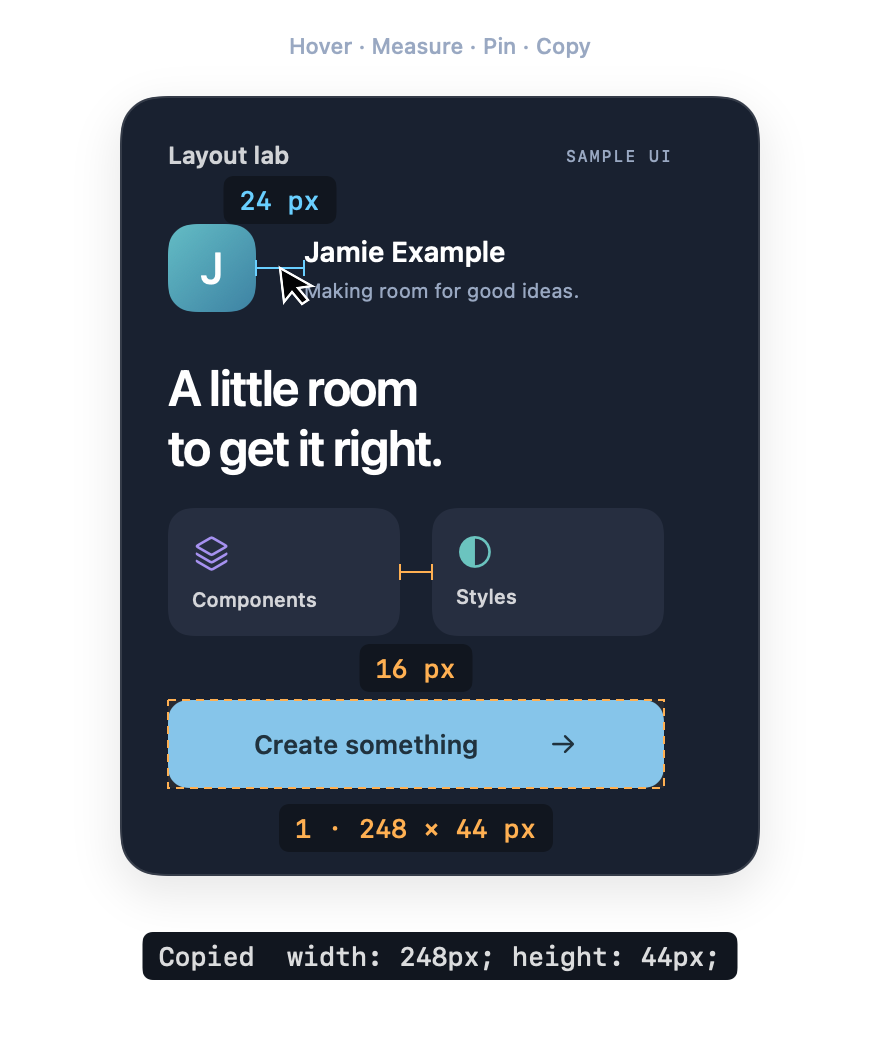
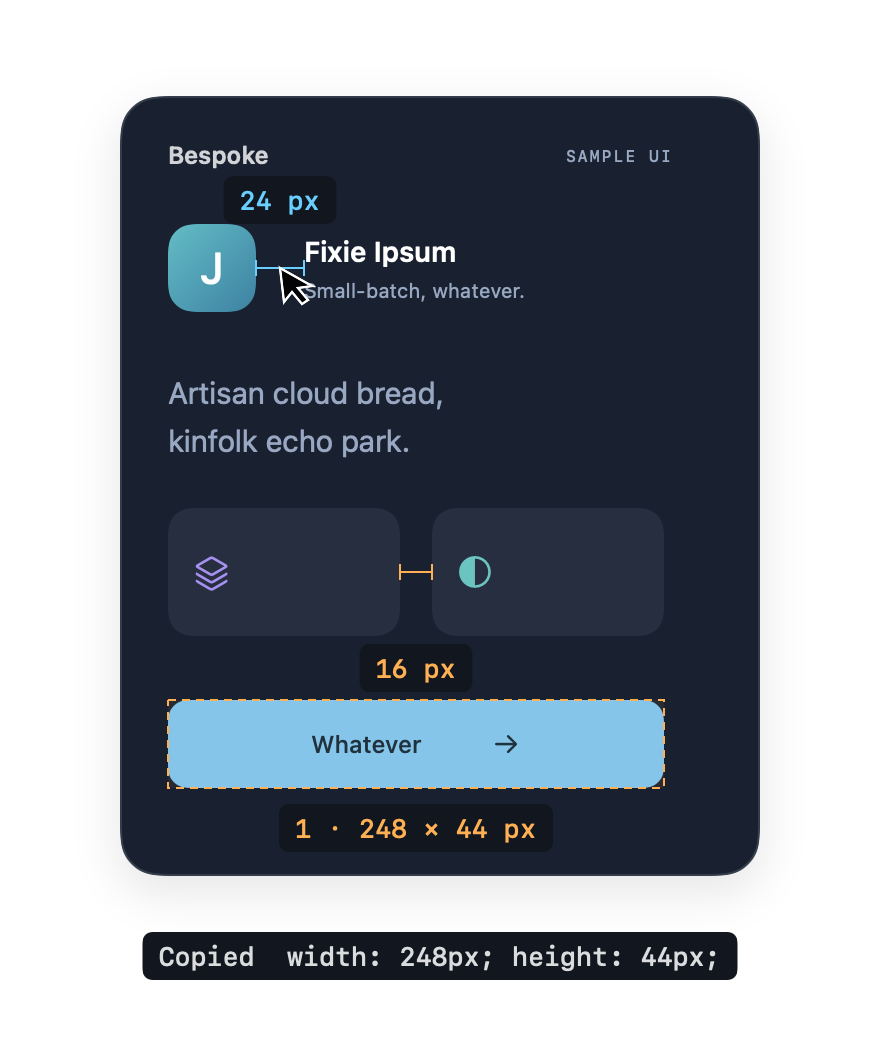
Simplify demo copy with hipster placeholder text

diff --git a/Scripts/export-illustrated-demo.swift b/Scripts/export-illustrated-demo.swift
@@ -26,7 +26,7 @@ struct IllustratedDemo: View {
                 .overlay(RoundedRectangle(cornerRadius: 20).strokeBorder(.white.opacity(0.12)))
                 .shadow(color: .black.opacity(0.10), radius: 12, y: 8)
                 .frame(width: 320, height: 390).offset(x: 60, y: 48)
-            Text("Layout lab").font(.system(size: 12, weight: .semibold)).foregroundStyle(.white.opacity(0.8))
+            Text("Bespoke").font(.system(size: 12, weight: .semibold)).foregroundStyle(.white.opacity(0.8))
                 .offset(x: 84, y: 70)
             Text("SAMPLE UI").font(.system(size: 8, weight: .medium, design: .monospaced)).tracking(1)
                 .foregroundStyle(secondary).offset(x: 283, y: 73)
@@ -34,26 +34,23 @@ struct IllustratedDemo: View {
                 .overlay(Text("J").font(.system(size: 22, weight: .medium)).foregroundStyle(.white))
                 .frame(width: 44, height: 44).offset(x: 84, y: 112)
             VStack(alignment: .leading, spacing: 5) {
-                Text("Jamie Example").font(.system(size: 14, weight: .semibold)).foregroundStyle(.white)
-                Text("Making room for good ideas.").font(.system(size: 10)).foregroundStyle(secondary)
+                Text("Fixie Ipsum").font(.system(size: 14, weight: .semibold)).foregroundStyle(.white)
+                Text("Small-batch, whatever.").font(.system(size: 10)).foregroundStyle(secondary)
             }.offset(x: 152, y: 117)
-            Text("A little room\nto get it right.")
-                .font(.system(size: 25, weight: .semibold)).tracking(-0.8).lineSpacing(1)
-                .foregroundStyle(.white).offset(x: 84, y: 179)
-            tile("Components", symbol: "square.stack.3d.up", color: Color(red: 0.65, green: 0.57, blue: 0.94))
+            Text("Artisan cloud bread,\nkinfolk echo park.")
+                .font(.system(size: 15)).lineSpacing(5)
+                .foregroundStyle(secondary).offset(x: 84, y: 187)
+            tile(symbol: "square.stack.3d.up", color: Color(red: 0.65, green: 0.57, blue: 0.94))
                 .offset(x: 84, y: 254)
-            tile("Styles", symbol: "circle.lefthalf.filled", color: Color(red: 0.42, green: 0.77, blue: 0.75))
+            tile(symbol: "circle.lefthalf.filled", color: Color(red: 0.42, green: 0.77, blue: 0.75))
                 .offset(x: 216, y: 254)
             RoundedRectangle(cornerRadius: 10).fill(Color(red: 0.49, green: 0.78, blue: 0.96))
                 .overlay {
                     HStack(spacing: 35) {
-                        Text("Create something").font(.system(size: 13, weight: .semibold))
+                        Text("Whatever").font(.system(size: 12, weight: .medium))
                         Image(systemName: "arrow.right").font(.system(size: 12, weight: .medium))
                     }.foregroundStyle(Color(red: 0.06, green: 0.16, blue: 0.24))
                 }.frame(width: 248, height: 44).offset(x: 84, y: 350)
-            Text(state.phase == 5 ? "Hover · Measure · Pin · Copy" : ["A fictional interface. A familiar workflow.", "Find dimensions", "Pin a distance", "Measure an area", "Pin the measurement", ""][state.phase])
-                .font(.system(size: 11, weight: .medium)).foregroundStyle(secondary)
-                .frame(width: 440).offset(y: 16)
             Canvas { context, _ in
                 func line(_ a: CGPoint, _ b: CGPoint, color: Color, dashed: Bool = false) {
                     var path = Path(); path.move(to: a); path.addLine(to: b)
@@ -123,12 +120,11 @@ struct IllustratedDemo: View {
         }.frame(width: 440, height: 520)
     }
 
-    private func tile(_ title: String, symbol: String, color: Color) -> some View {
+    private func tile(symbol: String, color: Color) -> some View {
         RoundedRectangle(cornerRadius: 12).fill(Color(red: 0.15, green: 0.18, blue: 0.25))
             .overlay(alignment: .leading) {
                 VStack(alignment: .leading, spacing: 7) {
                     Image(systemName: symbol).font(.system(size: 16)).foregroundStyle(color)
-                    Text(title).font(.system(size: 10, weight: .medium)).foregroundStyle(.white.opacity(0.8))
                 }.padding(.leading, 12)
             }.frame(width: 116, height: 64)
     }

diff --git a/website/dist/index.html b/website/dist/index.html
@@ -43,8 +43,8 @@
       </section>
       <div class="showcase">
         <figure class="app-demo">
-          <img id="demo" src="/assets/schnaps-layout-demo-poster.webp" data-animation="/assets/schnaps-layout-demo.webp" data-poster="/assets/schnaps-layout-demo-poster.webp" width="440" height="520" alt="Illustrated Schnaps workflow on a fictional design card: measure 16 px and 24 px gaps, pin a 248 × 44 px button, and copy its CSS dimensions." />
-          <figcaption>A sample UI. Hover, measure, pin, and copy.<button id="demo-toggle" class="demo-toggle" type="button" hidden>Play</button></figcaption>
+          <img id="demo" src="/assets/schnaps-layout-demo-poster.webp?v=hipster-1" data-animation="/assets/schnaps-layout-demo.webp?v=hipster-1" data-poster="/assets/schnaps-layout-demo-poster.webp?v=hipster-1" width="440" height="520" alt="Illustrated Schnaps workflow on a sparse fictional card with hipster placeholder text: measure gaps, pin a button, and copy its CSS dimensions." />
+          <figcaption>Hover. Measure. Pin. Copy.<button id="demo-toggle" class="demo-toggle" type="button" hidden>Play</button></figcaption>
         </figure>
         <section class="features" aria-label="Measurement tools">
           <article><h2>Find dimensions <kbd>⇧⌘F</kbd></h2><p>Hover between elements to see horizontal and vertical distances.</p></article>

diff --git a/website/README.md b/website/README.md
@@ -12,7 +12,7 @@ Deploy from `website/` with `npx wrangler deploy`, using the authenticated Cloud
 
 ## Demo and branding
 
-The homepage uses an illustrated feature walkthrough over a fictional “Layout lab” card, clearly marked “SAMPLE UI.” It shows avatar and tile spacing, a button region, pinned measurements, and CSS copying together in the static poster. The animation introduces the same actions in sequence. This is an illustration of the workflow, not a live app capture. No video player or animation library is loaded.
+The homepage uses an illustrated feature walkthrough over a fictional card with sparse hipster placeholder text, clearly marked “SAMPLE UI.” It shows avatar and tile spacing, a button region, pinned measurements, and CSS copying together in the static poster. The animation introduces the same actions in sequence. This is an illustration of the workflow, not a live app capture. No video player or animation library is loaded.
 
 Run `swift Scripts/export-illustrated-demo.swift` from the repository root to regenerate the transparent 880 × 1040 px animated WebP, static WebP poster, and `Assets/Previews/Schnaps-Layout-Demo.png`. The WebP command-line tools (`img2webp`, `cwebp`) must be installed. SwiftUI draws the fictional subject and the illustrated measurement states from the same coordinates. The artwork displays at no more than 400 CSS pixels wide, with responsive shrinking, a pause control, and the complete still image for reduced-motion preferences or disabled JavaScript.
 
